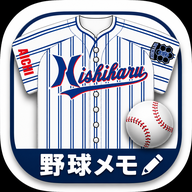
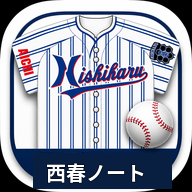
Add files via upload

Changed region(s): [[0.1562, 0.7812, 0.9062, 1.0]]

diff --git a/index.html b/index.html
@@ -5,13 +5,13 @@
 <meta name="viewport" content="width=device-width,initial-scale=1,viewport-fit=cover">
 <meta name="theme-color" content="#0b1220">
 <meta name="mobile-web-app-capable" content="yes">
-<meta name="application-name" content="野球メモ">
+<meta name="application-name" content="西春ノート">
 <meta name="apple-mobile-web-app-capable" content="yes">
 <meta name="apple-mobile-web-app-status-bar-style" content="black-translucent">
-<meta name="apple-mobile-web-app-title" content="野球メモ">
+<meta name="apple-mobile-web-app-title" content="西春ノート">
 <link rel="manifest" href="manifest.webmanifest">
 <link rel="apple-touch-icon" href="icon-192.png">
-<title>野球メモ</title>
+<title>西春ノート</title>
 <style>
 :root{--bg:#080d16;--panel:#111a28;--panel2:#172234;--line:#26364d;--text:#f5f7fb;--muted:#9aa8bb;--blue:#3b82f6;--green:#22c55e;--red:#ef4444;--yellow:#f59e0b}
 *{box-sizing:border-box}body{margin:0;background:linear-gradient(180deg,#07101c,#0b1220 45%,#07101a);color:var(--text);font-family:-apple-system,BlinkMacSystemFont,"Noto Sans JP",sans-serif}
@@ -49,11 +49,13 @@ button,input,select{font:inherit}button{border:0;color:inherit;cursor:pointer}.a
 .homeInstallBtn{width:100%;padding:14px 16px;margin-top:0;border-radius:14px;font-size:16px;background:#17345d;border-color:#477fc9}
 .installGuide{margin-top:10px;color:#91a2bb;font-size:12px;line-height:1.55}
 .runnerModal{position:fixed;inset:0;background:rgba(0,0,0,.72);display:flex;align-items:flex-end;justify-content:center;z-index:60}.runnerCard{width:min(560px,100%);background:#0f1725;border:1px solid #26344b;border-radius:22px 22px 0 0;padding:18px;box-shadow:0 -10px 40px rgba(0,0,0,.45)}.runnerBases{position:relative;width:250px;height:210px;margin:10px auto}.runnerBase{position:absolute;width:70px;height:70px;transform:rotate(45deg);border:2px solid #52647e;background:#111c2c;border-radius:8px;display:flex;align-items:center;justify-content:center}.runnerBase span{transform:rotate(-45deg);font-weight:900;font-size:14px}.runnerBase.on{background:#12652f;border-color:#39c96b}.rb1{right:25px;top:70px}.rb2{left:90px;top:0}.rb3{left:25px;top:70px}.runnerScore{display:grid;grid-template-columns:repeat(5,1fr);gap:7px}.runnerScore button{padding:11px 5px}.runnerActions{display:flex;gap:8px;margin-top:12px}.runnerActions button{flex:1}.corrNote{font-size:12px;color:#91a2bb;line-height:1.5}
+
+.rosterImportGrid{display:grid;grid-template-columns:1fr 1fr;gap:10px}.rosterBox{background:#0b1422;border:1px solid #26364d;border-radius:12px;padding:12px}.rosterBoxTitle{font-weight:900;font-size:13px;margin-bottom:7px}.rosterTextarea{width:100%;min-height:150px;resize:vertical;background:#08111d;color:#fff;border:1px solid #33445d;border-radius:10px;padding:10px;line-height:1.6;outline:none}.rosterTextarea:focus{border-color:#3b82f6}.fileBtn{display:flex;align-items:center;justify-content:center;gap:6px;width:100%;min-height:48px;border:1px dashed #4b6383;background:#101b2b;border-radius:11px;font-weight:900;text-align:center}.fileInput{display:none}.importHelp{font-size:11px;color:#91a2bb;line-height:1.55;margin-top:7px}.rosterPreview{margin-top:9px;font-size:12px;color:#b8c7da}.rosterPreview b{color:#fff}@media(max-width:500px){.rosterImportGrid{grid-template-columns:1fr}}
 </style>
 </head>
 <body>
 <div class="app">
-<header class="top"><div class="brand">⚾ 野球メモ</div><div class="sub">高校野球の試合記録を、少ないタップで。</div></header>
+<header class="top"><div class="brand">⚾ 西春ノート</div><div class="sub">高校野球の試合記録を、少ないタップで。</div></header>
 <main class="content" id="app"></main>
 <nav class="tabs">
 <button class="tab active" data-tab="record"><span class="ico">📝</span>記録</button>
@@ -451,13 +453,49 @@ function applyRunnerCorrection(){
 }
 function toggleRunner(i){ensureGame();pushGameHistory();const g=db.current;g.runners[i]=g.runners[i]?0:1;g.runnerNames[i]=g.runners[i]?(g.runnerNames[i]||'走者'):null;save();render()}
 function teamView(){
- return `<div class="card"><div class="title">チーム設定</div><div class="grid2"><input id="teamName" class="input" value="${esc(db.team.name)}" placeholder="チーム名"><button class="btn primary" onclick="setTeam()">保存</button></div></div>
- <div class="card"><div class="row between"><div class="title">選手名簿（${db.team.players.length}人）</div><button class="btn small" onclick="addPlayer()">＋ 選手追加</button></div>
+ const rosterText=db.team.players.map(p=>p.num?`${p.num} ${p.name}`:p.name).join("\n");
+ return `<div class="card"><div class="title">チーム登録</div><div class="grid2"><input id="teamName" class="input" value="${esc(db.team.name)}" placeholder="チーム名"><button class="btn primary" onclick="setTeam()">チーム名を保存</button></div></div>
+ <div class="card"><div class="title">選手名簿をまとめて登録</div><div class="muted" style="margin-bottom:10px">1人ずつ入力する必要はありません。スマホのメモ・ノートから貼り付けるか、.txtファイルを読み込めます。</div>
+ <div class="rosterImportGrid">
+  <div class="rosterBox"><div class="rosterBoxTitle">✍ 直接入力・貼り付け</div><textarea id="rosterBulkText" class="rosterTextarea" placeholder="例\n1 田中大輔\n2 佐藤翔\n3 山田蓮\n\n背番号なしなら\n田中大輔\n佐藤翔">${esc(rosterText)}</textarea><button class="btn primary" style="width:100%;margin-top:8px" onclick="importRosterText()">この内容で名簿を登録</button></div>
+  <div class="rosterBox"><div class="rosterBoxTitle">📄 .txtから読み込む</div><label class="fileBtn" for="rosterTxtFile">📱 メモ・ノートのTXTを選択</label><input id="rosterTxtFile" class="fileInput" type="file" accept=".txt,text/plain" onchange="importRosterFile(this)"><div class="importHelp">1行に1選手。<br>「1 田中大輔」「#1 田中大輔」「田中大輔」のどれでもOKです。<br>読み込んだ内容は登録前に確認できます。</div><div id="rosterFilePreview" class="rosterPreview"></div></div>
+ </div></div>
+ <div class="card"><div class="row between"><div class="title">現在の選手名簿（${db.team.players.length}人）</div><button class="btn small" onclick="addPlayer()">＋ 1人追加</button></div>
  <div class="history">${db.team.players.map((p,i)=>`<div class="hist row between"><div><b>${p.num?`#${p.num} `:""}${esc(p.name)}</b></div><button class="btn small red" onclick="delPlayer(${i})">削除</button></div>`).join("")}</div></div>
- <div class="card"><div class="title">使い方</div><p class="muted">選手名はここで一度登録。試合ごとのオーダーは保存した名簿から選択します。</p></div>`;
+ <div class="card"><div class="title">登録ルール</div><p class="muted">チーム名は直接入力して保存。選手名はまとめて貼り付け・TXT読み込みができます。登録した名簿は試合ごとのオーダー選択にそのまま使えます。</p></div>`;
 }
 function setTeam(){db.team.name=document.getElementById("teamName").value.trim()||"自校";save();render();toast("チーム名を保存しました")}
-function addPlayer(){let name=prompt("選手名を入力");if(!name)return;let num=prompt("背番号（任意）")||"";db.team.players.push({name,num});save();render()}
+function parseRosterText(text){
+ const lines=String(text||"").replace(/^\uFEFF/,"").split(/\r?\n/).map(x=>x.trim()).filter(Boolean);
+ const players=[]; const seen=new Set();
+ for(const raw of lines){
+  let line=raw.replace(/^[-*・、]+\s*/,"").trim();
+  let num="",name=line;
+  let m=line.match(/^#?(\d{1,3})[\s,、:：\-]+(.+)$/);
+  if(m){num=m[1];name=m[2].trim()}
+  name=name.replace(/^#?\d{1,3}[\s]+/,"").trim();
+  if(!name||seen.has(name))continue;
+  seen.add(name); players.push({name,num});
+ }
+ return players;
+}
+function importRosterText(){
+ const text=document.getElementById("rosterBulkText")?.value||""; const players=parseRosterText(text);
+ if(!players.length)return toast("選手名が見つかりません");
+ if(!confirm(`${players.length}人の選手を名簿に登録します。\n現在の名簿は置き換わります。よろしいですか？`))return;
+ db.team.players=players; db.lastLineup=[]; save(); render(); toast(`${players.length}人を登録しました`);
+}
+async function importRosterFile(input){
+ const file=input?.files?.[0]; if(!file)return;
+ try{
+  const text=await file.text(); const players=parseRosterText(text);
+  if(!players.length){document.getElementById("rosterFilePreview").innerHTML="選手名を読み取れませんでした。";return}
+  document.getElementById("rosterFilePreview").innerHTML=`<b>${players.length}人</b>を読み込みました。\n「${esc(players.slice(0,5).map(p=>p.name).join("・"))}${players.length>5?"…":""}」`;
+  if(!confirm(`${file.name} から ${players.length}人を読み込みました。\n現在の名簿は置き換わります。登録しますか？`))return;
+  db.team.players=players; db.lastLineup=[]; save(); render(); toast(`${players.length}人を登録しました`);
+ }catch(e){toast("TXTファイルの読み込みに失敗しました")}
+}
+function addPlayer(){let name=prompt("選手名を入力");if(!name)return;let num=prompt("背番号（任意）")||"";db.team.players.push({name:name.trim(),num:num.trim()});save();render()}
 function delPlayer(i){if(!confirm("この選手を名簿から削除しますか？"))return;db.team.players.splice(i,1);save();render()}
 function lineupView(){
  ensureGame();let g=db.current;
@@ -566,59 +604,54 @@ function dataView(){
 function resultCanvas(g){
  const W=1600, events=resultEvents(g), stats=battingStats(g), max=Math.max(1,g.innings?.length||0);
  const font='-apple-system,BlinkMacSystemFont,"Noto Sans JP",sans-serif';
- const H=Math.min(2200,980+Math.ceil(stats.length/9)*250+Math.ceil(events.length/10)*250);
+ const H=Math.min(2400,1040+Math.ceil(stats.length/10)*240+Math.ceil(events.length/12)*220);
  const c=document.createElement('canvas');c.width=W;c.height=H;const ctx=c.getContext('2d');
- const bg='#070d16',panel='#0e1826',panel2='#121f31',line='#2a3d57',text='#f5f7fb',muted='#8fa2bd',accent='#4d8dff';
+ const bg='#060a12',panel='#0d1420',panel2='#131e2d',line='#33465f',text='#f5f7fb',muted='#9aabc0',accent='#3b82f6',accent2='#79aefc';
  ctx.fillStyle=bg;ctx.fillRect(0,0,W,H);
- // top sports-card header
- ctx.fillStyle=accent;ctx.fillRect(0,0,W,10);
- ctx.fillStyle=text;ctx.textAlign='left';ctx.font=`900 34px ${font}`;ctx.fillText('野球メモ',70,72);
- ctx.fillStyle=muted;ctx.font=`700 18px ${font}`;ctx.fillText(`${g.date||''}  ${g.tournament||''}  ${g.stadium||''}`,70,104);
- ctx.textAlign='right';ctx.fillStyle=muted;ctx.font=`800 16px ${font}`;ctx.fillText('GAME RESULT',W-70,72);
- // score hero
- const heroY=135, heroH=250;
- ctx.fillStyle=panel;ctx.fillRect(60,heroY,W-120,heroH);
- ctx.strokeStyle=line;ctx.lineWidth=2;ctx.strokeRect(60,heroY,W-120,heroH);
- ctx.textAlign='center';ctx.fillStyle=muted;ctx.font=`800 15px ${font}`;ctx.fillText('FINAL',W/2,heroY+38);
- ctx.fillStyle=text;ctx.font=`900 28px ${font}`;ctx.fillText(db.team.name,W/2-260,heroY+94);
- ctx.fillStyle=muted;ctx.font=`800 20px ${font}`;ctx.fillText('VS',W/2,heroY+94);
- ctx.fillStyle=text;ctx.fillText(g.opponent||'相手校',W/2+260,heroY+94);
- ctx.fillStyle=text;ctx.font=`950 92px ${font}`;ctx.fillText(`${g.scoreUs}  -  ${g.scoreOpp}`,W/2,heroY+185);
- const result=g.scoreUs>g.scoreOpp?'WIN':g.scoreUs<g.scoreOpp?'LOSS':'DRAW';
- ctx.fillStyle=result==='WIN'?'#dff7e8':result==='LOSS'?'#ffdfe2':'#e8eef8';ctx.font=`950 18px ${font}`;ctx.fillText(result,W/2,heroY+224);
- let y=heroY+heroH+38;
- // scoreboard panel
- ctx.textAlign='left';ctx.fillStyle=text;ctx.font=`900 25px ${font}`;ctx.fillText('SCOREBOARD',70,y);y+=18;
- const left=70, top=y, rowH=62, teamW=330, totalW=92, usable=W-left*2-teamW-totalW;
- const cellW=Math.max(70,Math.min(105,usable/max));
- const drawCell=(x,yy,w,h,val,bold=false,fill=panel2)=>{ctx.fillStyle=fill;ctx.fillRect(x,yy,w,h);ctx.strokeStyle=line;ctx.lineWidth=1;ctx.strokeRect(x,yy,w,h);ctx.fillStyle=text;ctx.font=`${bold?'900':'750'} ${bold?22:20}px ${font}`;ctx.textAlign='center';ctx.fillText(String(val),x+w/2,yy+h/2+7)};
- drawCell(left,top,teamW,rowH,'TEAM',true,'#1a2a41');
- for(let i=0;i<max;i++)drawCell(left+teamW+i*cellW,top,cellW,rowH,i+1,true,'#1a2a41');
- drawCell(left+teamW+max*cellW,top,totalW,rowH,'R',true,'#243b5d');
- [[db.team.name,'us',g.scoreUs],[g.opponent||'相手','opp',g.scoreOpp]].forEach((r,ri)=>{const yy=top+rowH*(ri+1);drawCell(left,yy,teamW,rowH,r[0],true,panel);for(let i=0;i<max;i++)drawCell(left+teamW+i*cellW,yy,cellW,rowH,Number(g.innings?.[i]?.[r[1]])||0,false,panel);drawCell(left+teamW+max*cellW,yy,totalW,rowH,r[2],true,'#243b5d');});
- y=top+rowH*3+38;
- // key numbers
- const totalAB=stats.reduce((a,s)=>a+s.ab,0), totalH=stats.reduce((a,s)=>a+s.h,0), totalRBI=stats.reduce((a,s)=>a+s.rbi,0);
- ctx.fillStyle=text;ctx.font=`900 25px ${font}`;ctx.textAlign='left';ctx.fillText('TEAM HIGHLIGHTS',70,y);y+=34;
- const kw=470, kh=88;[['H',totalH],['AB',totalAB],['RBI',totalRBI]].forEach((k,i)=>{const x=70+i*(kw+35);ctx.fillStyle=panel;ctx.fillRect(x,y,kw,kh);ctx.strokeStyle=line;ctx.strokeRect(x,y,kw,kh);ctx.fillStyle=muted;ctx.font=`800 15px ${font}`;ctx.fillText(k[0],x+22,y+30);ctx.fillStyle=text;ctx.font=`950 32px ${font}`;ctx.fillText(k[1],x+22,y+65);});
- y+=kh+38;
- // batting stats as wide modern table
- ctx.fillStyle=text;ctx.font=`900 25px ${font}`;ctx.fillText('BATTING',70,y);y+=32;
- const cols=[['選手',300],['PA',70],['AB',70],['H',70],['2B',70],['3B',70],['HR',70],['RBI',80],['BB',70],['HBP',70],['SO',70],['SH',70],['SF',70],['AVG',95]];
- let x=70;cols.forEach(([lab,w])=>{drawCell(x,y,w,42,lab,true,'#1a2a41');x+=w;});
- stats.forEach((s,ri)=>{y+=42;x=70;const vals=[s.name,s.pa,s.ab,s.h,s.d2,s.d3,s.hr,s.rbi,s.bb,s.hbp,s.so,s.sh,s.sf,s.ab?(s.h/s.ab).toFixed(3).replace(/^0/,''):'.000'];cols.forEach(([_,w],i)=>{drawCell(x,y,w,42,vals[i],i===0||i===13, i===0?panel:(ri%2?panel:'#0b1422'));x+=w;});});
+ // 現代プロ野球の結果カードを意識した横長ヘッダー
+ ctx.fillStyle=accent;ctx.fillRect(0,0,W,12);
+ ctx.fillStyle=text;ctx.textAlign='left';ctx.font=`950 42px ${font}`;ctx.fillText('西春ノート',64,76);
+ ctx.fillStyle=muted;ctx.font=`700 18px ${font}`;ctx.fillText(`${g.date||''}  ${g.tournament||''}  ${g.stadium||''}`,64,108);
+ ctx.textAlign='right';ctx.fillStyle=accent2;ctx.font=`900 18px ${font}`;ctx.fillText('試合結果',W-64,76);
+ const heroY=140,heroH=245;
+ ctx.fillStyle=panel;ctx.fillRect(55,heroY,W-110,heroH);ctx.strokeStyle=line;ctx.lineWidth=2;ctx.strokeRect(55,heroY,W-110,heroH);
+ ctx.textAlign='center';ctx.fillStyle=muted;ctx.font=`850 17px ${font}`;ctx.fillText('FINAL',W/2,heroY+38);
+ ctx.fillStyle=text;ctx.font=`950 30px ${font}`;ctx.fillText(db.team.name,W/2-300,heroY+92);ctx.fillText(g.opponent||'相手校',W/2+300,heroY+92);
+ ctx.fillStyle=muted;ctx.font=`900 20px ${font}`;ctx.fillText('VS',W/2,heroY+92);
+ ctx.fillStyle=text;ctx.font=`950 94px ${font}`;ctx.fillText(`${g.scoreUs}  -  ${g.scoreOpp}`,W/2,heroY+184);
+ const result=g.scoreUs>g.scoreOpp?'勝利':g.scoreUs<g.scoreOpp?'敗戦':'引き分け';
+ ctx.fillStyle=text;ctx.font=`950 18px ${font}`;ctx.fillText(result,W/2,heroY+222);
+ let y=heroY+heroH+42;
+ // 得点板
+ ctx.textAlign='left';ctx.fillStyle=text;ctx.font=`950 28px ${font}`;ctx.fillText('得点板',64,y);y+=22;
+ const left=64,top=y,rowH=64,teamW=360,totalW=100,usable=W-left*2-teamW-totalW,cellW=Math.max(70,Math.min(105,usable/max));
+ const cell=(x,yy,w,h,val,bold=false,fill=panel2)=>{ctx.fillStyle=fill;ctx.fillRect(x,yy,w,h);ctx.strokeStyle=line;ctx.lineWidth=1;ctx.strokeRect(x,yy,w,h);ctx.fillStyle=text;ctx.font=`${bold?'950':'800'} ${bold?22:21}px ${font}`;ctx.textAlign='center';ctx.fillText(String(val),x+w/2,yy+h/2+7)};
+ cell(left,top,teamW,rowH,'チーム',true,'#18263a');
+ for(let i=0;i<max;i++)cell(left+teamW+i*cellW,top,cellW,rowH,`${i+1}回`,true,'#18263a');
+ cell(left+teamW+max*cellW,top,totalW,rowH,'R',true,'#203a60');
+ [[db.team.name,'us',g.scoreUs],[g.opponent||'相手','opp',g.scoreOpp]].forEach((r,ri)=>{const yy=top+rowH*(ri+1);cell(left,yy,teamW,rowH,r[0],true,panel);for(let i=0;i<max;i++)cell(left+teamW+i*cellW,yy,cellW,rowH,Number(g.innings?.[i]?.[r[1]])||0,false,panel);cell(left+teamW+max*cellW,yy,totalW,rowH,r[2],true,'#203a60')});
+ y=top+rowH*3+40;
+ // ハイライト
+ const totalAB=stats.reduce((a,s)=>a+s.ab,0),totalH=stats.reduce((a,s)=>a+s.h,0),totalRBI=stats.reduce((a,s)=>a+s.rbi,0);
+ ctx.fillStyle=text;ctx.font=`950 28px ${font}`;ctx.textAlign='left';ctx.fillText('チームハイライト',64,y);y+=36;
+ const kw=(W-128-40)/3,kh=90;[['安打',totalH],['打数',totalAB],['打点',totalRBI]].forEach((k,i)=>{const x=64+i*(kw+20);ctx.fillStyle=panel;ctx.fillRect(x,y,kw,kh);ctx.strokeStyle=line;ctx.strokeRect(x,y,kw,kh);ctx.fillStyle=muted;ctx.font=`800 15px ${font}`;ctx.fillText(k[0],x+20,y+29);ctx.fillStyle=text;ctx.font=`950 34px ${font}`;ctx.fillText(k[1],x+20,y+67)});y+=kh+42;
+ // 打撃成績
+ ctx.fillStyle=text;ctx.font=`950 28px ${font}`;ctx.fillText('打撃成績',64,y);y+=34;
+ const cols=[['選手',300],['打席',70],['打数',70],['安打',70],['2B',70],['3B',70],['HR',70],['打点',80],['四球',70],['死球',70],['三振',70],['犠打',70],['犠飛',70],['打率',95]];
+ let x=64;cols.forEach(([lab,w])=>{cell(x,y,w,44,lab,true,'#18263a');x+=w});
+ stats.forEach((st,ri)=>{y+=44;x=64;const vals=[st.name,st.pa,st.ab,st.h,st.d2,st.d3,st.hr,st.rbi,st.bb,st.hbp,st.so,st.sh,st.sf,st.ab?(st.h/st.ab).toFixed(3).replace(/^0/,''):'.000'];cols.forEach(([_,w],i)=>{cell(x,y,w,44,vals[i],i===0||i===13, i===0?panel:(ri%2?panel:'#0a111b'));x+=w})});
  y+=60;
- // compact play-by-play in two columns
- ctx.fillStyle=text;ctx.font=`900 25px ${font}`;ctx.textAlign='left';ctx.fillText('PLAY-BY-PLAY',70,y);y+=34;
- const half=Math.ceil(events.length/2), colW=(W-170)/2;
- const drawEvents=(list,ox)=>{let yy=y;let last=null;list.forEach(e=>{if(e.inning!==last){ctx.fillStyle=accent;ctx.fillRect(ox,yy,colW,3);yy+=18;ctx.fillStyle=muted;ctx.font=`900 16px ${font}`;ctx.fillText(`${e.inning}回`,ox,yy);yy+=20;last=e.inning;}ctx.fillStyle=panel;ctx.fillRect(ox,yy,colW,58);ctx.fillStyle=line;ctx.strokeStyle=line;ctx.strokeRect(ox,yy,colW,58);ctx.fillStyle='#9fc3ff';ctx.font=`900 14px ${font}`;ctx.fillText(`${e.half}`,ox+16,yy+22);ctx.fillStyle=text;ctx.font=`700 16px ${font}`;let tx=`${e.text}`;if(tx.length>43)tx=tx.slice(0,42)+'…';ctx.fillText(tx,ox+52,yy+22);ctx.fillStyle=muted;ctx.font=`600 12px ${font}`;ctx.fillText(e.kind||'',ox+52,yy+43);yy+=68;});return yy;};
- const y1=drawEvents(events.slice(0,half),70), y2=drawEvents(events.slice(half),70+colW+30); y=Math.max(y1,y2)+35;
- ctx.fillStyle=muted;ctx.font=`600 15px ${font}`;ctx.fillText('野球メモ  •  観戦しながら、思い出を残そう。',70,H-28);
+ // 試合経過：回ごとにラインを入れ、左右に配置
+ ctx.fillStyle=text;ctx.font=`950 28px ${font}`;ctx.textAlign='left';ctx.fillText('試合経過',64,y);y+=38;
+ const groups=[];let last=null;events.forEach(e=>{const inn=Number(e.inning)||1;if(inn!==last){groups.push({inning:inn,items:[]});last=inn}groups.at(-1).items.push(e)});
+ const colsX=[64,W/2+12],colW=W/2-88; let col=0,yy=[y,y];
+ groups.forEach(gr=>{if(yy[col]+58>H-90){col++;if(col>1)col=1}let q=yy[col];ctx.fillStyle=accent;ctx.fillRect(colsX[col],q,colW,4);q+=22;ctx.fillStyle=accent2;ctx.font=`950 17px ${font}`;ctx.fillText(`${gr.inning}回`,colsX[col],q);q+=10;gr.items.forEach(e=>{q+=20;ctx.fillStyle=panel;ctx.fillRect(colsX[col],q,colW,52);ctx.strokeStyle=line;ctx.strokeRect(colsX[col],q,colW,52);ctx.fillStyle=text;ctx.font=`800 15px ${font}`;let tx=`${e.half}　${e.text}`;if(tx.length>58)tx=tx.slice(0,57)+'…';ctx.fillText(tx,colsX[col]+14,q+21);ctx.fillStyle=muted;ctx.font=`600 11px ${font}`;ctx.fillText(e.kind||'',colsX[col]+14,q+40);q+=8});yy[col]=q+18;col=col===0?1:0});
+ ctx.fillStyle=muted;ctx.font=`650 15px ${font}`;ctx.fillText('西春ノート  •  観戦しながら、思い出を残そう。',64,H-28);
  return c;
 }
-async function saveResultImage(id){const g=db.games.find(x=>x.id===id);if(!g)return;try{const c=resultCanvas(g);const blob=await new Promise(r=>c.toBlob(r,'image/png'));if(!blob)return toast('画像作成に失敗しました');const url=URL.createObjectURL(blob);const a=document.createElement('a');a.href=url;a.download=`野球メモ_${g.date||'試合結果'}_${g.opponent||'相手'}.png`;a.click();setTimeout(()=>URL.revokeObjectURL(url),1000);toast('試合結果画像を保存しました')}catch(e){toast('画像保存に失敗しました')}}
-async function shareGameResult(id){const g=db.games.find(x=>x.id===id);if(!g)return;const text=`${g.date||''} 野球メモ\n${db.team.name} ${g.scoreUs}-${g.scoreOpp} ${g.opponent||'相手校'}\n試合結果・打撃成績・試合経過を記録しました。`;try{const c=resultCanvas(g);const blob=await new Promise(r=>c.toBlob(r,'image/png'));const file=blob?new File([blob],`野球メモ_${g.date||'試合結果'}.png`,{type:'image/png'}):null;if(navigator.share){if(file && (!navigator.canShare || navigator.canShare({files:[file]}))){await navigator.share({title:'野球メモ 試合結果',text,files:[file]})}else{await navigator.share({title:'野球メモ 試合結果',text})}toast('共有しました')}else{await navigator.clipboard?.writeText(text);toast('共有機能がないため、結果文をコピーしました')}}catch(e){if(e?.name!=='AbortError')toast('共有をキャンセルしました')}}
-function exportData(){let blob=new Blob([JSON.stringify(db,null,2)],{type:"application/json"}),a=document.createElement("a");a.href=URL.createObjectURL(blob);a.download="野球メモ_バックアップ.json";a.click();URL.revokeObjectURL(a.href)}
+async function saveResultImage(id){const g=db.games.find(x=>x.id===id);if(!g)return;try{const c=resultCanvas(g);const blob=await new Promise(r=>c.toBlob(r,'image/png'));if(!blob)return toast('画像作成に失敗しました');const url=URL.createObjectURL(blob);const a=document.createElement('a');a.href=url;a.download=`西春ノート_${g.date||'試合結果'}_${g.opponent||'相手'}.png`;a.click();setTimeout(()=>URL.revokeObjectURL(url),1000);toast('試合結果画像を保存しました')}catch(e){toast('画像保存に失敗しました')}}
+async function shareGameResult(id){const g=db.games.find(x=>x.id===id);if(!g)return;const text=`${g.date||''} 西春ノート\n${db.team.name} ${g.scoreUs}-${g.scoreOpp} ${g.opponent||'相手校'}\n試合結果・打撃成績・試合経過を記録しました。`;try{const c=resultCanvas(g);const blob=await new Promise(r=>c.toBlob(r,'image/png'));const file=blob?new File([blob],`西春ノート_${g.date||'試合結果'}.png`,{type:'image/png'}):null;if(navigator.share){if(file && (!navigator.canShare || navigator.canShare({files:[file]}))){await navigator.share({title:'西春ノート 試合結果',text,files:[file]})}else{await navigator.share({title:'西春ノート 試合結果',text})}toast('共有しました')}else{await navigator.clipboard?.writeText(text);toast('共有機能がないため、結果文をコピーしました')}}catch(e){if(e?.name!=='AbortError')toast('共有をキャンセルしました')}}
+function exportData(){let blob=new Blob([JSON.stringify(db,null,2)],{type:"application/json"}),a=document.createElement("a");a.href=URL.createObjectURL(blob);a.download="西春ノート_バックアップ.json";a.click();URL.revokeObjectURL(a.href)}
 function deleteGame(id){
  const g=db.games.find(x=>x.id===id); if(!g)return;
  if(!confirm(`${g.date||''} ${g.opponent||'相手校'} の試合データを削除しますか？\nこの試合だけを削除し、チーム名簿や他の試合は残します。`))return;

diff --git a/sw.js b/sw.js
@@ -1,5 +1,5 @@
-const CACHE='baseball-memo-v2.12';
+const CACHE='nishiharu-note-v2.15';
 const ASSETS=['./','./index.html','./manifest.webmanifest','./icon-192.png','./icon-512.png'];
-self.addEventListener('install',e=>{e.waitUntil(caches.open(CACHE).then(c=>c.addAll(ASSETS)).then(()=>self.skipWaiting()))});
-self.addEventListener('activate',e=>{e.waitUntil(caches.keys().then(keys=>Promise.all(keys.filter(k=>k!==CACHE).map(k=>caches.delete(k)))).then(()=>self.clients.claim()))});
-self.addEventListener('fetch',e=>{if(e.request.method!=='GET')return;e.respondWith(caches.match(e.request).then(cached=>cached||fetch(e.request).then(r=>{const copy=r.clone();caches.open(CACHE).then(c=>c.put(e.request,copy));return r}).catch(()=>caches.match('./index.html'))))});
+self.addEventListener('install',e=>e.waitUntil(caches.open(CACHE).then(c=>c.addAll(ASSETS)).then(()=>self.skipWaiting())));
+self.addEventListener('activate',e=>e.waitUntil(caches.keys().then(keys=>Promise.all(keys.filter(k=>k!==CACHE).map(k=>caches.delete(k)))).then(()=>self.clients.claim())));
+self.addEventListener('fetch',e=>e.respondWith(caches.match(e.request).then(r=>r||fetch(e.request))));

diff --git a/RELEASE_NOTES.md b/RELEASE_NOTES.md
@@ -1,7 +1,10 @@
-# 野球メモ v2.12
+# 西春ノート V2.15
 
-- 打席結果に「グランドルール」を追加。打者アウトのみとして記録し、走者・得点は動かさない。
-- グランドルールは3アウト進行と打撃成績（打席・打数）に正しく反映。
-- データ管理で試合ごとの削除に対応。削除した試合以外の試合、チーム名簿・設定は残す。
-- 「不要な試合データを選んで削除」で複数試合を選択削除可能。
-- 既存のイニング進行 `advanceHalf()` は変更していない。
+- チーム名は直接入力して保存できるよう維持。
+- 選手名簿をまとめて登録できる「直接入力・貼り付け」を追加。
+- スマホのメモ／ノート等で作った `.txt` をアップロードして選手名簿を一括登録できるようにした。
+- TXTは1行1選手。`1 田中大輔`、`#1 田中大輔`、`田中大輔` の形式に対応。
+- 重複した選手名は自動的に1件へ整理。
+- 登録前に人数と先頭の選手名を確認できる。
+- 登録時は現在の選手名簿を置き換える。既存の試合データは変更しない。
+- イニング進行（advanceHalf）は変更していない。
